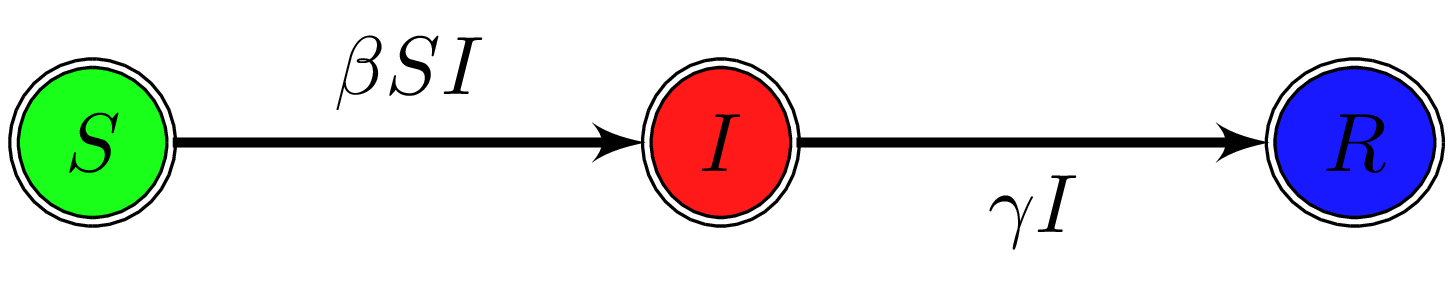
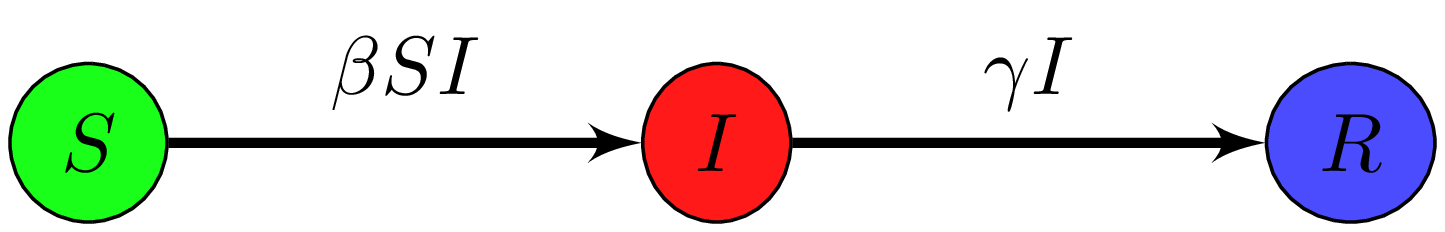
Update figures

Changed region(s): [[0.0, 0.181, 0.9965, 0.9655], [0.218, 0.1207, 0.3426, 0.4224], [0.6851, 0.1509, 0.7474, 0.4224]]

diff --git a/SLIDES_MD/2022_04_3MC_EpiModelling_L02_BasicMathEpi.md b/SLIDES_MD/2022_04_3MC_EpiModelling_L02_BasicMathEpi.md
@@ -99,10 +99,14 @@ Really worth taking a look at this series of papers!
 - Individuals in the population can be susceptible ($S$) or infected and infectious with the disease ($I$). Upon recovery or death, they are *removed* from the infectious compartment ($R$)
 - Incidence is mass action $\beta SI$
 
+![width:600px center](https://raw.githubusercontent.com/julien-arino/3MC-course-epidemiological-modelling/main/FIGS/figure_SIR_KMK_ODE.png)
+
 
 ---
 
-Consider the following model, usually called the Kermack-McKendrick model
+![bg left:30%](https://raw.githubusercontent.com/julien-arino/3MC-course-epidemiological-modelling/main/FIGS/figure_SIR_KMK_ODE_vertical.png)
+
+# <!--fit-->The Kermack-McKendrick SIR model
 $$
 \begin{align}
 S' &= -\beta SI \tag{1a}\label{sys:KMK_dS} \\
